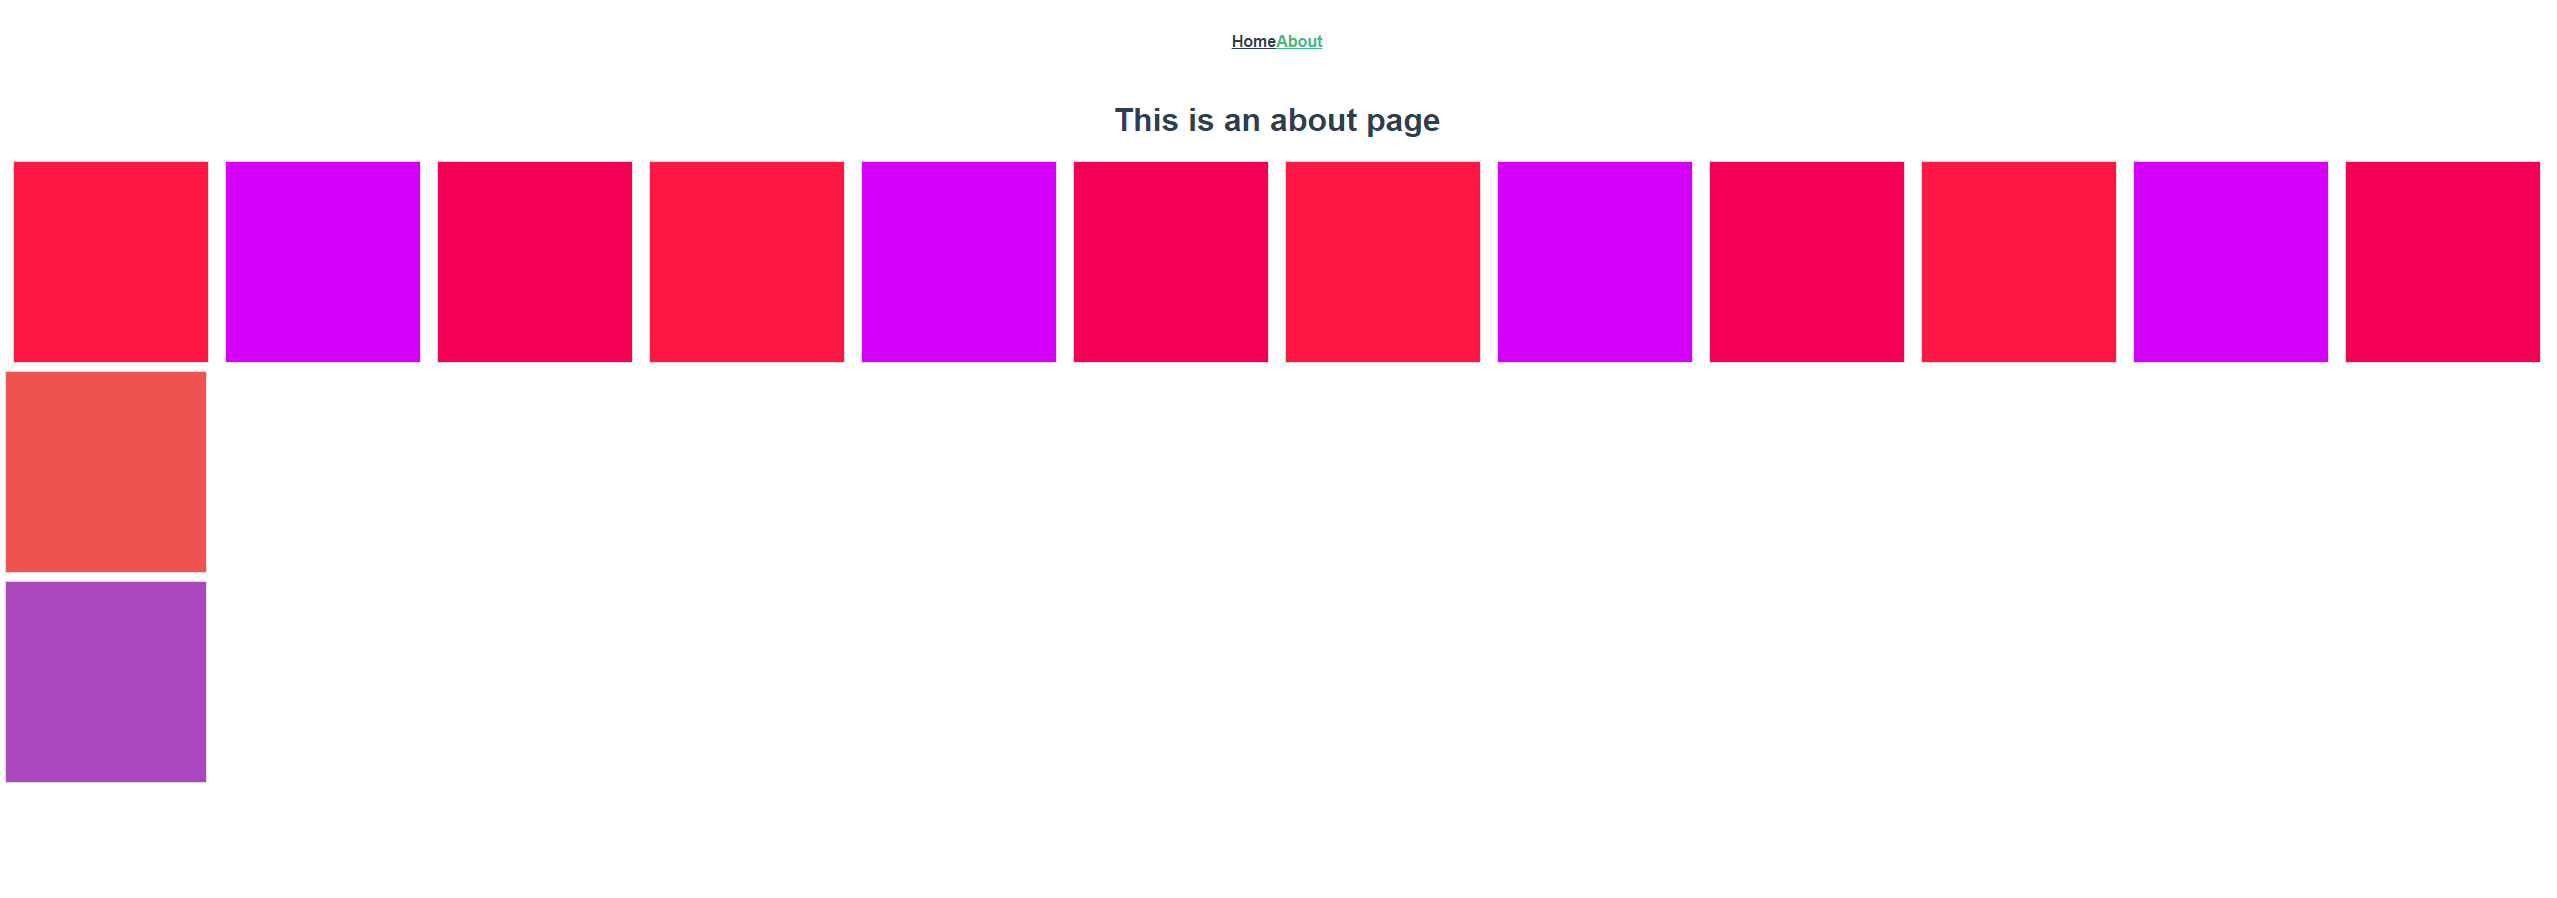
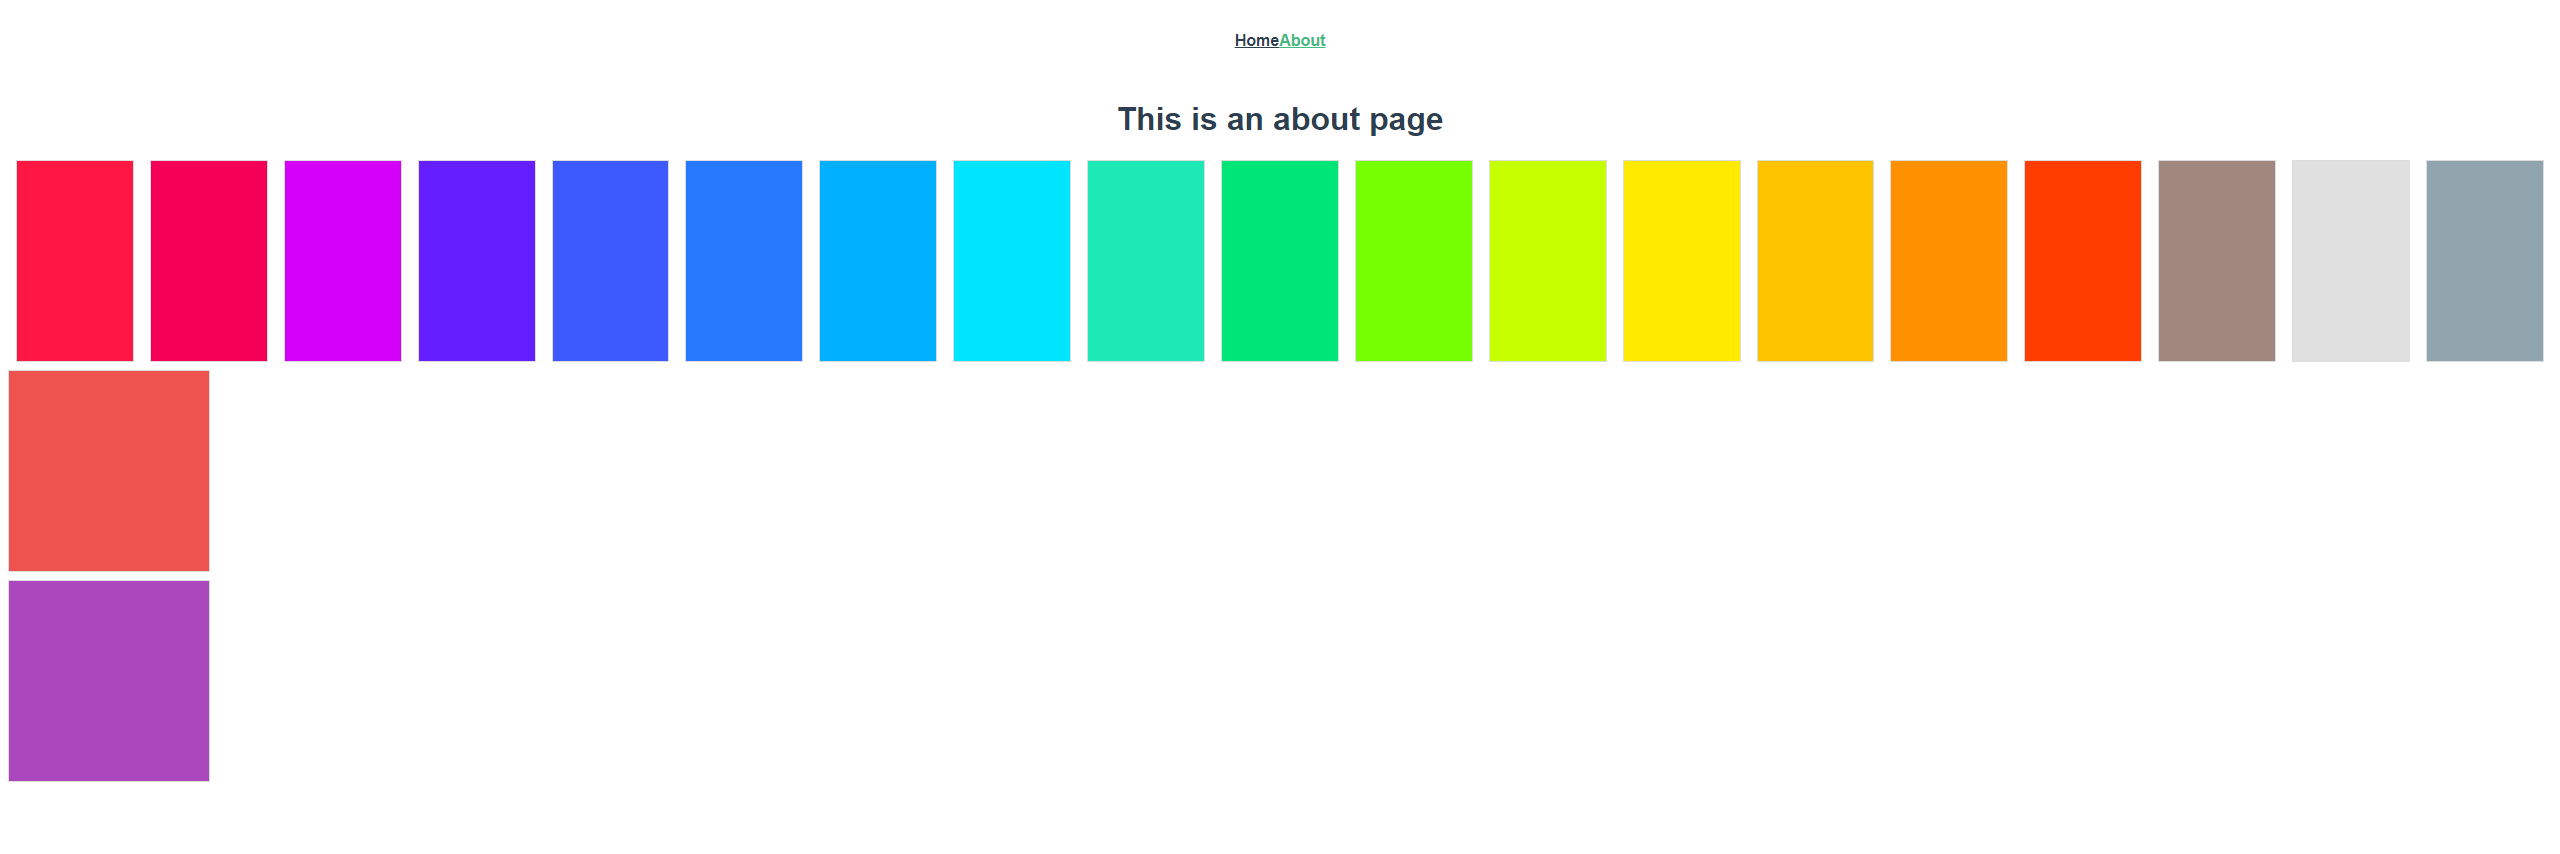
bgColor 결과 수정및 brown, grey, light-blue 10~13삭제

diff --git a/junehyung_component/src/assets/styles/color.scss b/junehyung_component/src/assets/styles/color.scss
@@ -18,9 +18,9 @@ $color-list: (
   "orange": (#FFF3E0, #FFE0B2, #FFCC80, #FFB74D, #FFA726, #FF9800, #FB8C00, #F57C00, #EF6C00, #E65100, #FFD180, #FFAB40, #FF9100, #FF6D00),
 
   "deep-orange": (#FBE9E7, #FFCCBC, #FFAB91, #FF8A65, #FF7043, #FF5722, #F4511E, #E64A19, #D84315, #BF360C, #FF9E80, #FF6E40, #FF3D00, #DD2C00), 
-  "brown": (#EFEBE9, #D7CCC8, #BCAAA4, #A1887F, #8D6E63, #795548, #6D4C41, #5D4037, #4E342E, #3E2723, #D7CCC8, #BCAAA4, #A1887F, #8D6E63,), 
-  "grey": (#FAFAFA, #F5F5F5, #EEEEEE, #E0E0E0, #BDBDBD, #9E9E9E, #757575, #616161, #424242, #212121, #FAFAFA, #F5F5F5, #EEEEEE, #E0E0E0),
-  "blue-grey": (#ECEFF1, #CFD8DC, #B0BEC5, #90A4AE, #78909C, #607D8B, #546E7A,#455A64, #37474F, #263238, #ECEFF1, #CFD8DC, #B0BEC5, #90A4AE),
+  "brown": (#EFEBE9, #D7CCC8, #BCAAA4, #A1887F, #8D6E63, #795548, #6D4C41, #5D4037, #4E342E, #3E2723,), 
+  "grey": (#FAFAFA, #F5F5F5, #EEEEEE, #E0E0E0, #BDBDBD, #9E9E9E, #757575, #616161, #424242, #212121,),
+  "blue-grey": (#ECEFF1, #CFD8DC, #B0BEC5, #90A4AE, #78909C, #607D8B, #546E7A,#455A64, #37474F, #263238,),
 );
 
 

diff --git a/junehyung_component/src/views/About.vue b/junehyung_component/src/views/About.vue
@@ -14,15 +14,15 @@
     <div class="testBox bg-teal-13 jh-mx-sm"></div>
     <div class="testBox bg-green-13 jh-mx-sm"></div>
 
-    <div class="testBox bg-light-gren-13 jh-mx-sm"></div>
+    <div class="testBox bg-light-green-13 jh-mx-sm"></div>
     <div class="testBox bg-lime-13 jh-mx-sm"></div>
     <div class="testBox bg-yellow-13 jh-mx-sm"></div>
     <div class="testBox bg-amber-13 jh-mx-sm"></div>
     <div class="testBox bg-orange-13 jh-mx-sm"></div>
     <div class="testBox bg-deep-orange-13 jh-mx-sm"></div>
-    <div class="testBox bg-brown-13 jh-mx-sm"></div>
-    <div class="testBox bg-grey-13 jh-mx-sm"></div>
-    <div class="testBox bg-blue-grey-13 jh-mx-sm"></div>
+    <div class="testBox bg-brown-4 jh-mx-sm"></div>
+    <div class="testBox bg-grey-4 jh-mx-sm"></div>
+    <div class="testBox bg-blue-grey-4 jh-mx-sm"></div>
   </div>
   <div class="testBox bg-red-5 jh-my-sm"></div>
   <div class="testBox bg-purple-5"></div>

diff --git a/Explanation/결과물기록.md b/Explanation/결과물기록.md
@@ -8,4 +8,6 @@
 
 **bgColor**
 
+brown, grey, blue,grey 10~13 삭제.
+
 ![bgColor](./readme_images/bgColor.png)
